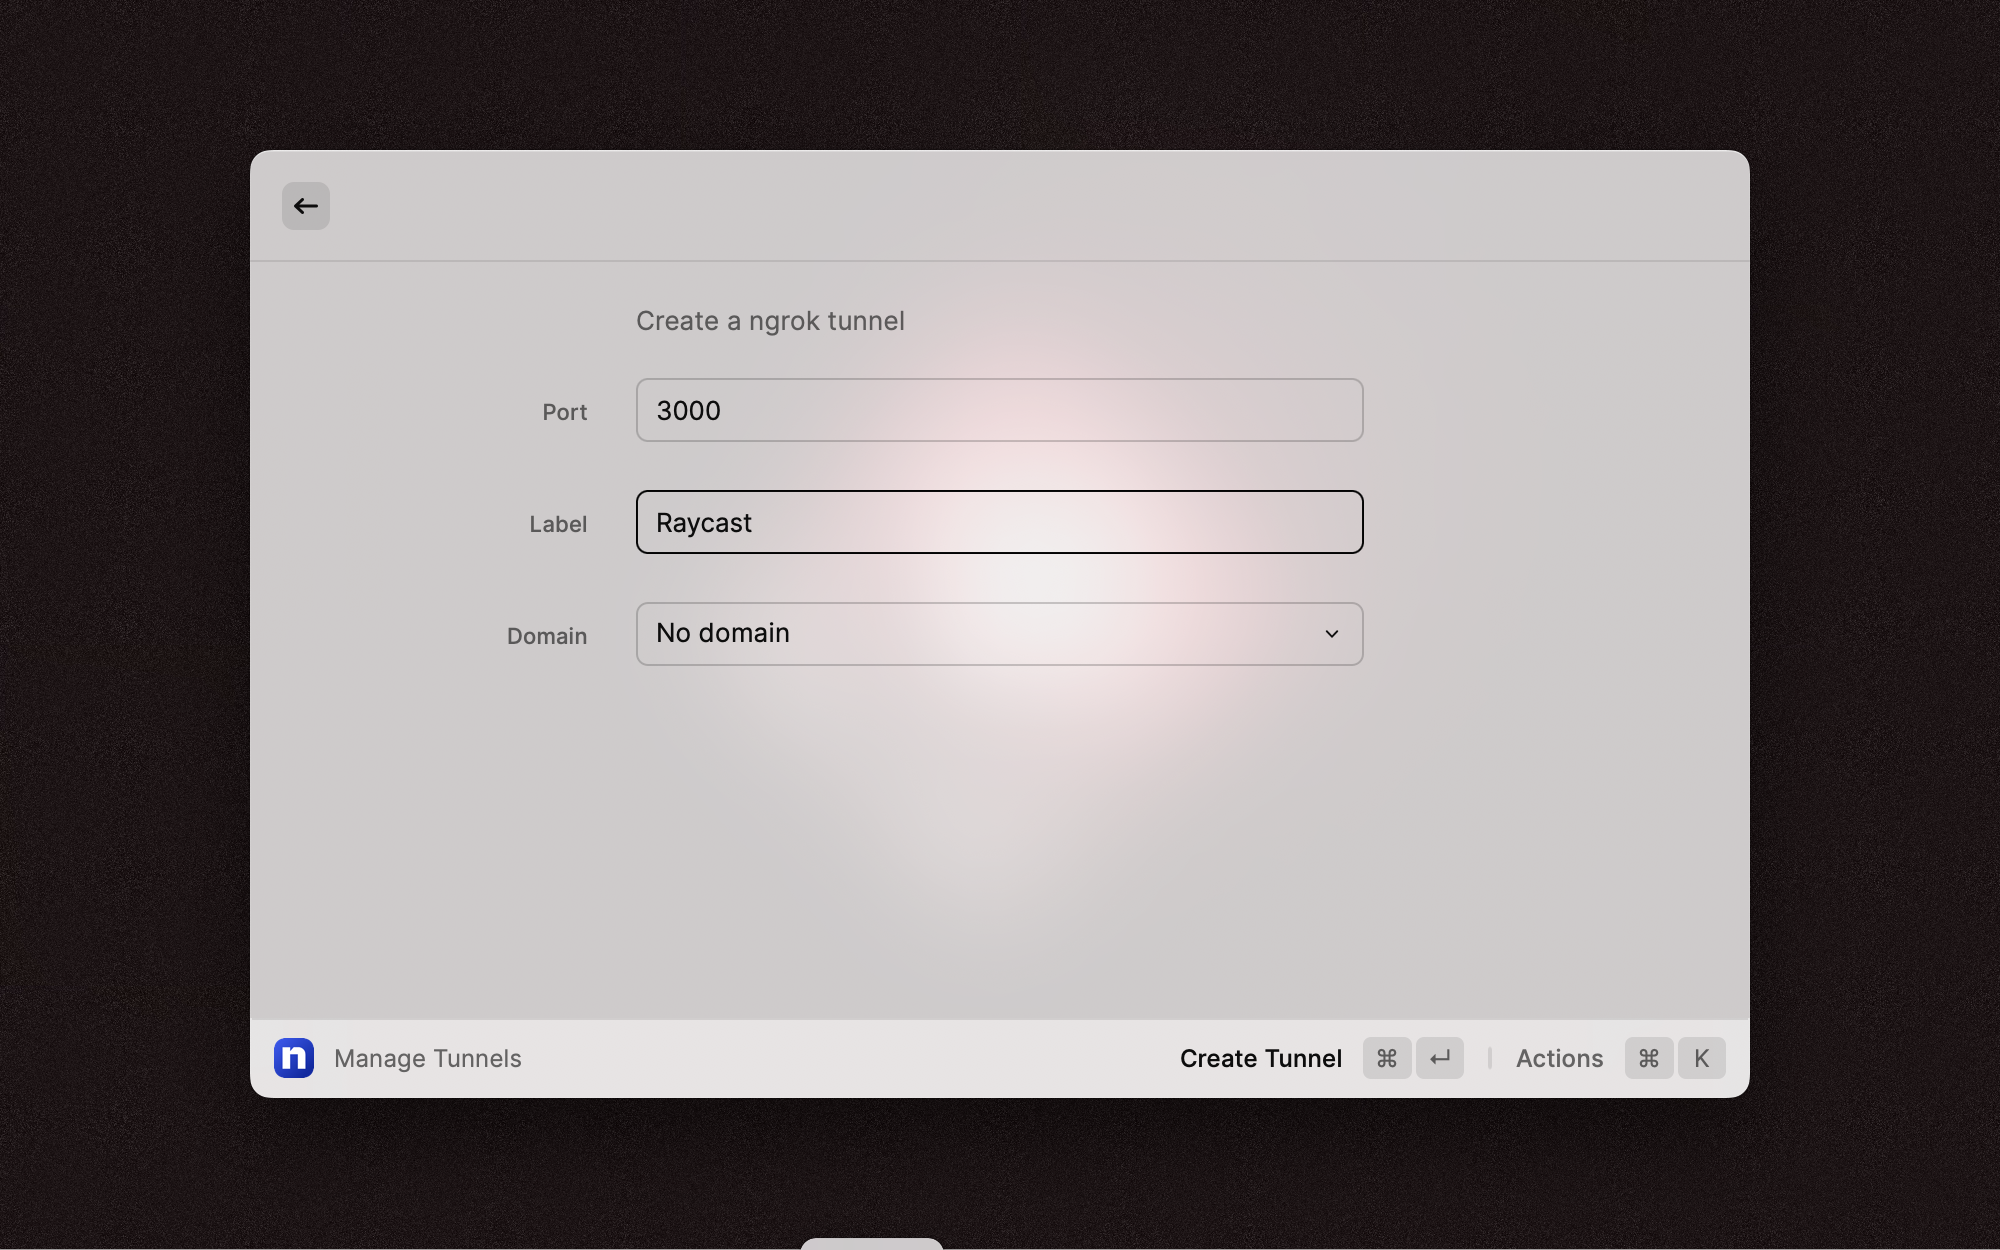
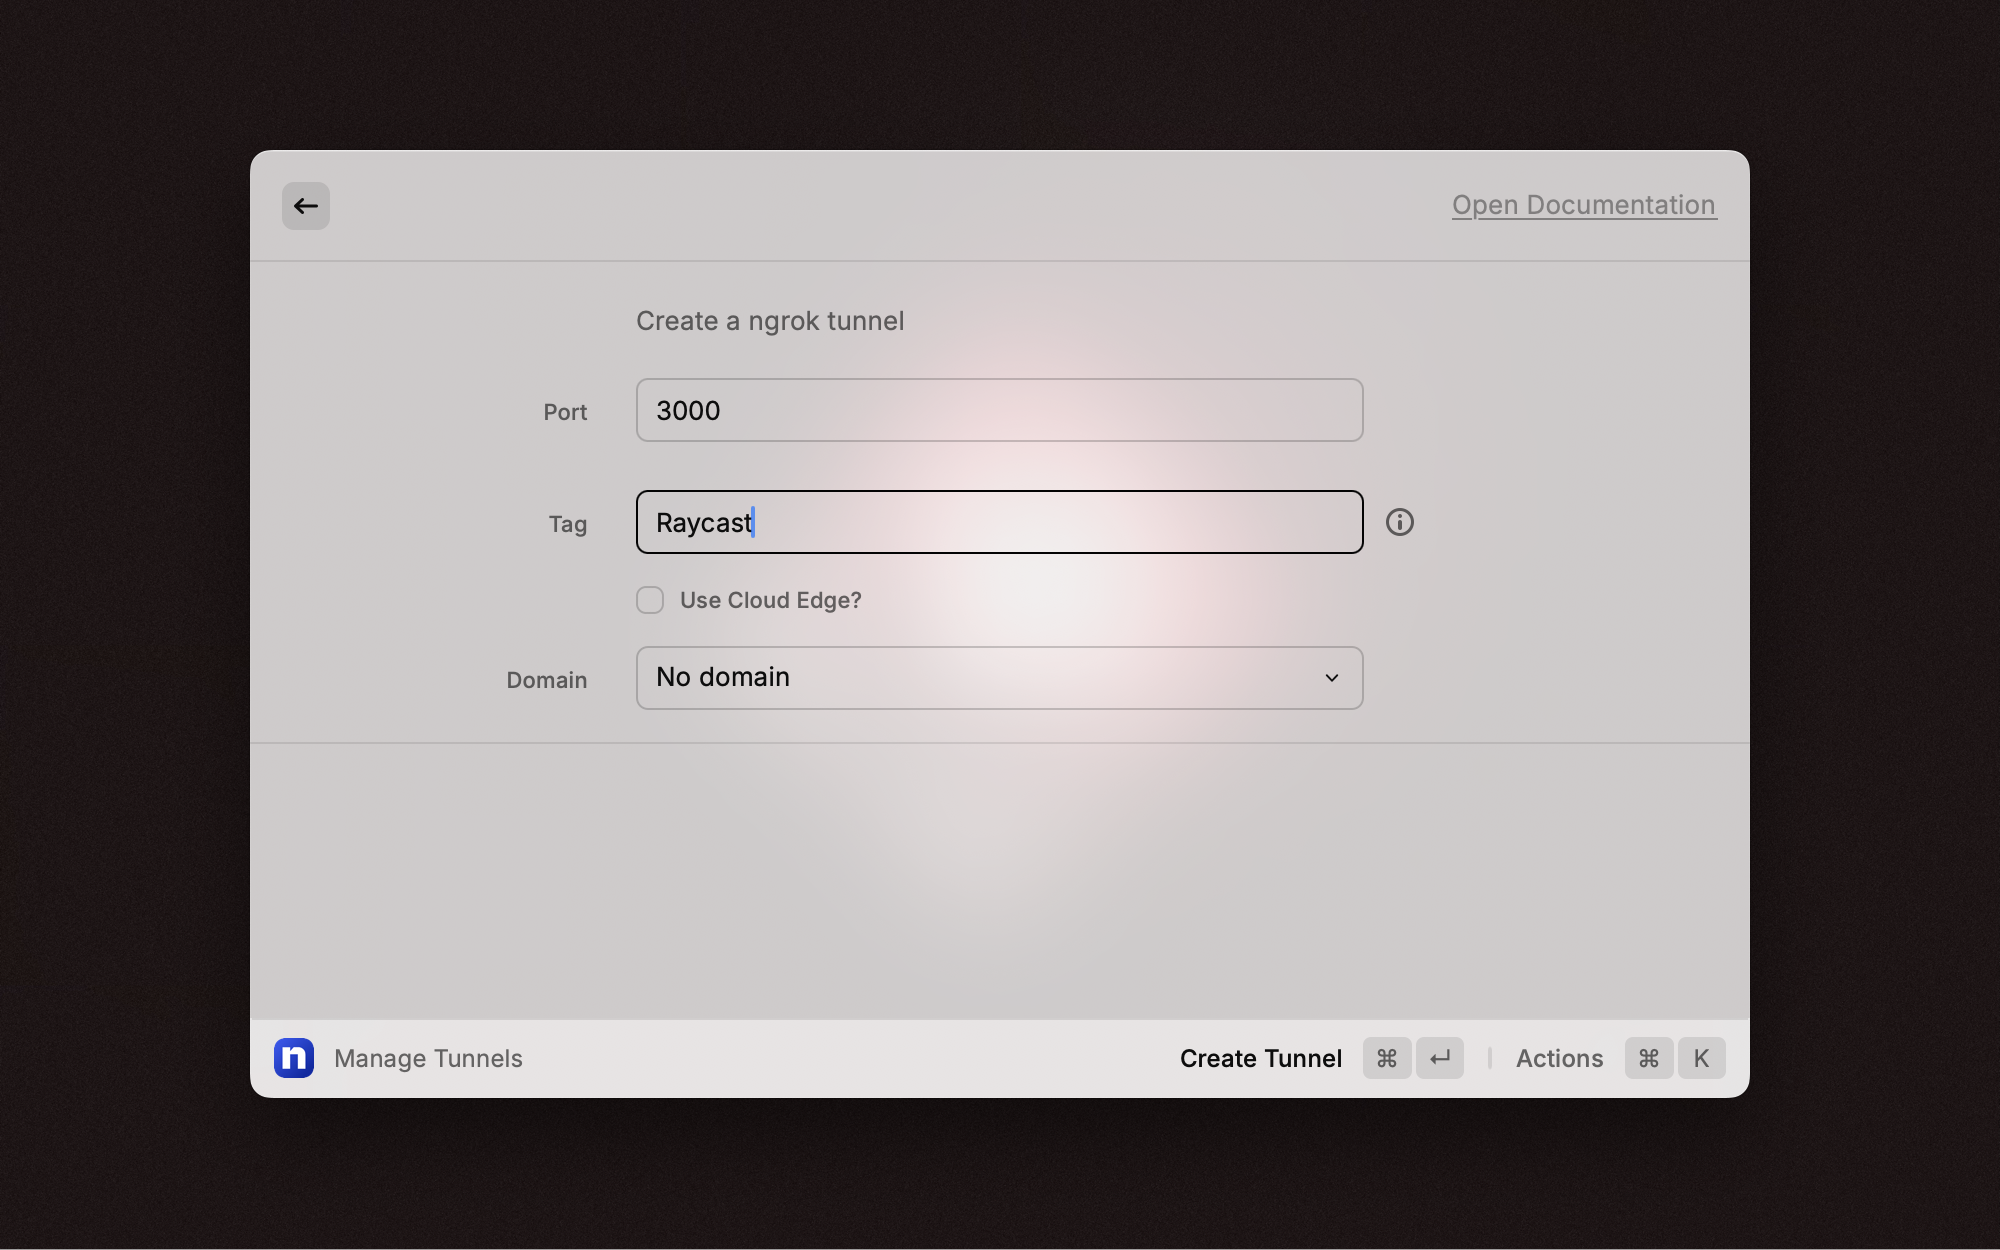
docs: add changelog and metadata

diff --git a/CHANGELOG.md b/CHANGELOG.md
@@ -1,5 +1,13 @@
 # ngrok Changelog
 
+## [Enhancements] - 2024-02-25
+
+- Added the ability to create Cloud Edge tunnels
+- Added action to open ngrok interface
+- Added ngrok "Open documentation" link when creating tunnel
+- Enhanced the list of tunnels with tooltips for distinguishing between local and edge tunnels
+- Updated deps to latest version
+
 ## [Fixes & Enhancements] - 2024-02-01
 
 - Fix bug that prevented users to create tunnels on ngrok CLI installed with Homebrew
